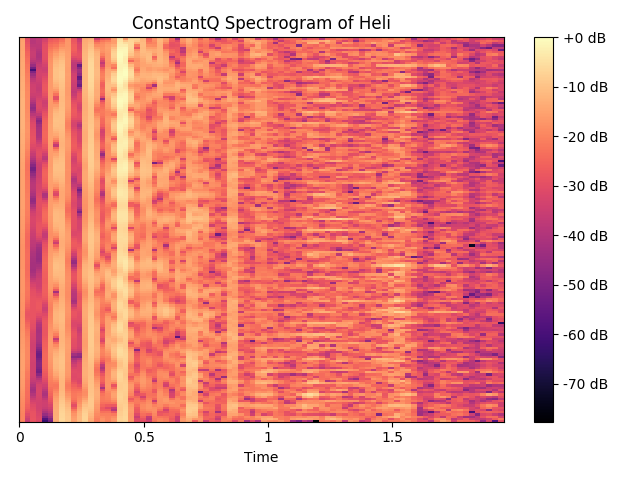
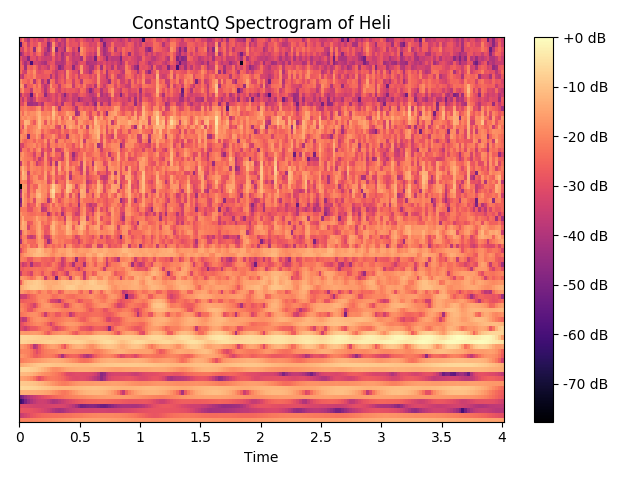
fixed direction on spectrograms

diff --git a/mf2018/vis_features.py b/mf2018/vis_features.py
@@ -31,7 +31,7 @@ filepath_heli = datain_path+'heli/test/72qNna11Znw_045.wav';
 raw_data_heli = ah.load_audio(filepath_heli,sr=sr,start_sec=0,duration_sec=clip_duration);
 
 # Generate magnitude spectrogram image
-feat = fh.gen_magspec(raw_data_boat,sr);
+feat = np.transpose(fh.gen_magspec(raw_data_boat,sr));
 fig = plt.figure();
 librosa.display.specshow(librosa.amplitude_to_db(feat, ref=np.max),x_axis='time');
 plt.title('Magnitude Spectrogram of Boat');
@@ -39,7 +39,7 @@ plt.colorbar(format='%+2.0f dB');
 plt.tight_layout();
 plt.savefig(vis_path+'magspec__boat_v55hojInS9c_011.png');
 plt.close(fig);
-feat = fh.gen_magspec(raw_data_heli,sr);
+feat = np.transpose(fh.gen_magspec(raw_data_heli,sr));
 fig = plt.figure();
 librosa.display.specshow(librosa.amplitude_to_db(feat, ref=np.max),x_axis='time');
 plt.title('Magnitude Spectrogram of Heli');
@@ -49,7 +49,7 @@ plt.savefig(vis_path+'magspec__heli_72qNna11Znw_045.png');
 plt.close(fig);
 
 # Generate constantQ spectrogram image
-feat = fh.gen_constantQ(raw_data_boat,sr);
+feat = np.transpose(fh.gen_constantQ(raw_data_boat,sr));
 fig = plt.figure();
 librosa.display.specshow(librosa.amplitude_to_db(feat, ref=np.max),x_axis='time');
 plt.title('ConstantQ Spectrogram of Boat');
@@ -57,7 +57,7 @@ plt.colorbar(format='%+2.0f dB');
 plt.tight_layout();
 plt.savefig(vis_path+'constantq__boat_v55hojInS9c_011.png');
 plt.close(fig);
-feat = fh.gen_constantQ(raw_data_heli,sr);
+feat = np.transpose(fh.gen_constantQ(raw_data_heli,sr));
 fig = plt.figure();
 librosa.display.specshow(librosa.amplitude_to_db(feat, ref=np.max),x_axis='time');
 plt.title('ConstantQ Spectrogram of Heli');
@@ -67,7 +67,7 @@ plt.savefig(vis_path+'constantq__heli_72qNna11Znw_045.png');
 plt.close(fig);
 
 # Generate correlogram image
-feat = fh.gen_correlogram(raw_data_boat,sr);
+feat = np.transpose(fh.gen_correlogram(raw_data_boat,sr));
 fig = plt.figure();
 librosa.display.specshow(librosa.amplitude_to_db(feat, ref=np.max),x_axis='time');
 plt.title('Correlogram of Boat');
@@ -75,7 +75,7 @@ plt.colorbar(format='%+2.0f dB');
 plt.tight_layout();
 plt.savefig(vis_path+'correlogram__boat_v55hojInS9c_011.png');
 plt.close(fig);
-feat = fh.gen_correlogram(raw_data_heli,sr);
+feat = np.transpose(fh.gen_correlogram(raw_data_heli,sr));
 fig = plt.figure();
 librosa.display.specshow(librosa.amplitude_to_db(feat, ref=np.max),x_axis='time');
 plt.title('Correlogram of Heli');
